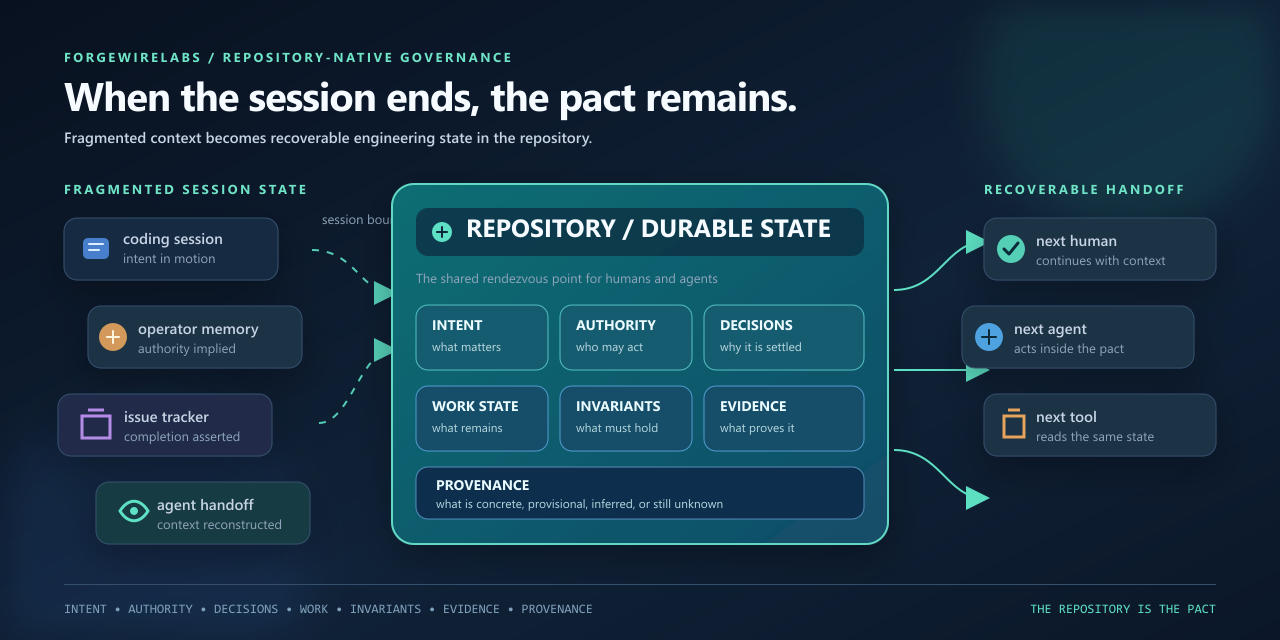
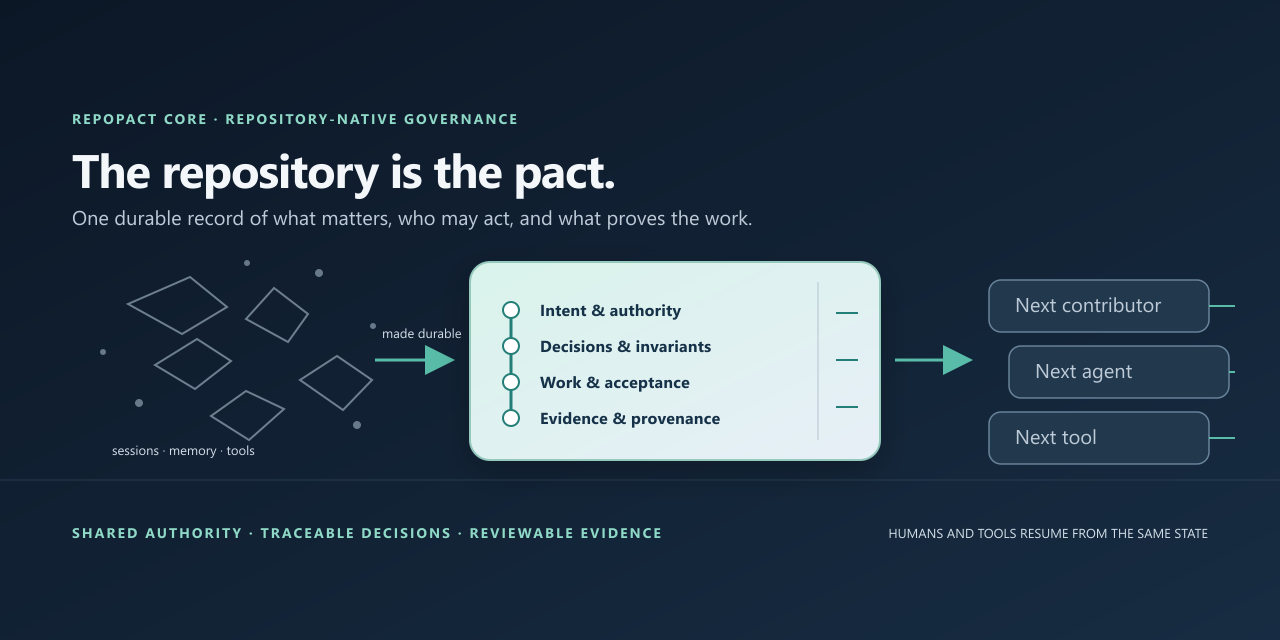
docs: improve Core public presentation

diff --git a/README.md b/README.md
@@ -10,9 +10,9 @@ RepoPact puts that load-bearing engineering state in versioned repository record
 >
 > People, agents, and tools coordinate through the same durable project records.
 
-![When the session ends, the pact remains: fragmented context becomes recoverable engineering state in the repository.](docs/assets/readme/repopact-hero-social.png)
+![A compact visual of loose context becoming linked repository records that let the next human, agent, or tool resume from shared state.](docs/assets/readme/repopact-hero.svg)
 
-[Get started](#choose-your-path) · [Architecture](#core-architecture) · [Documentation](#documentation) · [Research](#research)
+[Install and get started](#choose-your-path) · [Understand the model](#how-the-pact-works) · [Read the specification](SPEC.md) · [Explore the research](#research)
 
 RepoPact Core is the home of the `repopact` command-line package, canonical semantic engine, schemas, conformance suite, and reference governance records. It is open source under [Apache-2.0](LICENSE). The stable CLI package is published on [PyPI](https://pypi.org/project/repopact/). The separate [RepoPact Workbench](https://github.com/ForgeWireLabs/repopact-workbench) is a native interface that consumes Core; it is not part of the PyPI package.
 
@@ -32,6 +32,10 @@ RepoPact treats this as **governance discontinuity**: the loss or divergence of 
 | Reflected in stale dashboards or indexes | Reconciled from authoritative source records |
 
 That makes engineering work easier to resume, review, and verify across human and AI contributors.
+
+**Start with Core:** install the CLI and initialize a repository below. If you
+want a visual interface, explore [RepoPact Workbench](https://github.com/ForgeWireLabs/repopact-workbench),
+which uses the same Core semantics and keeps repository records authoritative.
 
 ## Choose your path
 
@@ -125,7 +129,12 @@ Core is the semantic authority shared by command-line and graphical clients. The
 
 The repository contains the Rust workspace, packaged schemas and templates, the 3.1.3 conformance corpus, documentation, and reference governance records. The [conformance contract](CONFORMANCE.md) defines what it means to claim compatibility with a specific RepoPact version. A conformance result is scoped to that version; it does not make claims about future versions.
 
+<details>
+<summary>View the Core architecture and authority boundaries</summary>
+
 ![Architecture diagram showing authoritative repository records, the canonical Rust semantic engine, clients, derived views, and optional integrations with distinct boundaries.](docs/assets/readme/repopact-architecture.svg)
+
+</details>
 
 The diagram distinguishes source records from projections. CLI and Workbench clients ask Core to interpret records and perform supported typed operations; dashboards, graph indexes, and screens help people navigate the resulting state. Optional host integrations have only the enforcement boundary they can demonstrate. See the [concrete work-item walkthrough](docs/work-item-walkthrough.md) for a proposal-to-evidence handoff grounded in the actual Core record shape and commands.
 

diff --git a/docs/assets/README.md b/docs/assets/README.md
@@ -2,11 +2,11 @@
 
 The README's public visual surface is intentionally small and evidence-backed.
 
-- `readme/repopact-hero.svg` is the current deterministic hero: it explains the
-  fragmented-session to durable-repository transition without mutable release
-  numbers, metrics, or generic AI imagery.
-- `readme/repopact-hero-social.png` is the generated 1280×640 social-preview
-  raster derived from that same hero.
+- `readme/repopact-hero.svg` is the scalable README hero. Its sparse record
+  spine communicates how project context becomes connected, durable authority.
+- `readme/repopact-hero-social.png` is a separately rendered 1280×640 social
+  preview for GitHub and other link cards. The image is ready to upload; no claim
+  is made that it is active in repository settings.
 - The real Windows Workbench capture formerly at
   `readme/workbench-governance.jpg` is retained as historical evidence under
   `archive/workbench-governance.jpg`; it is not a Core product asset.
